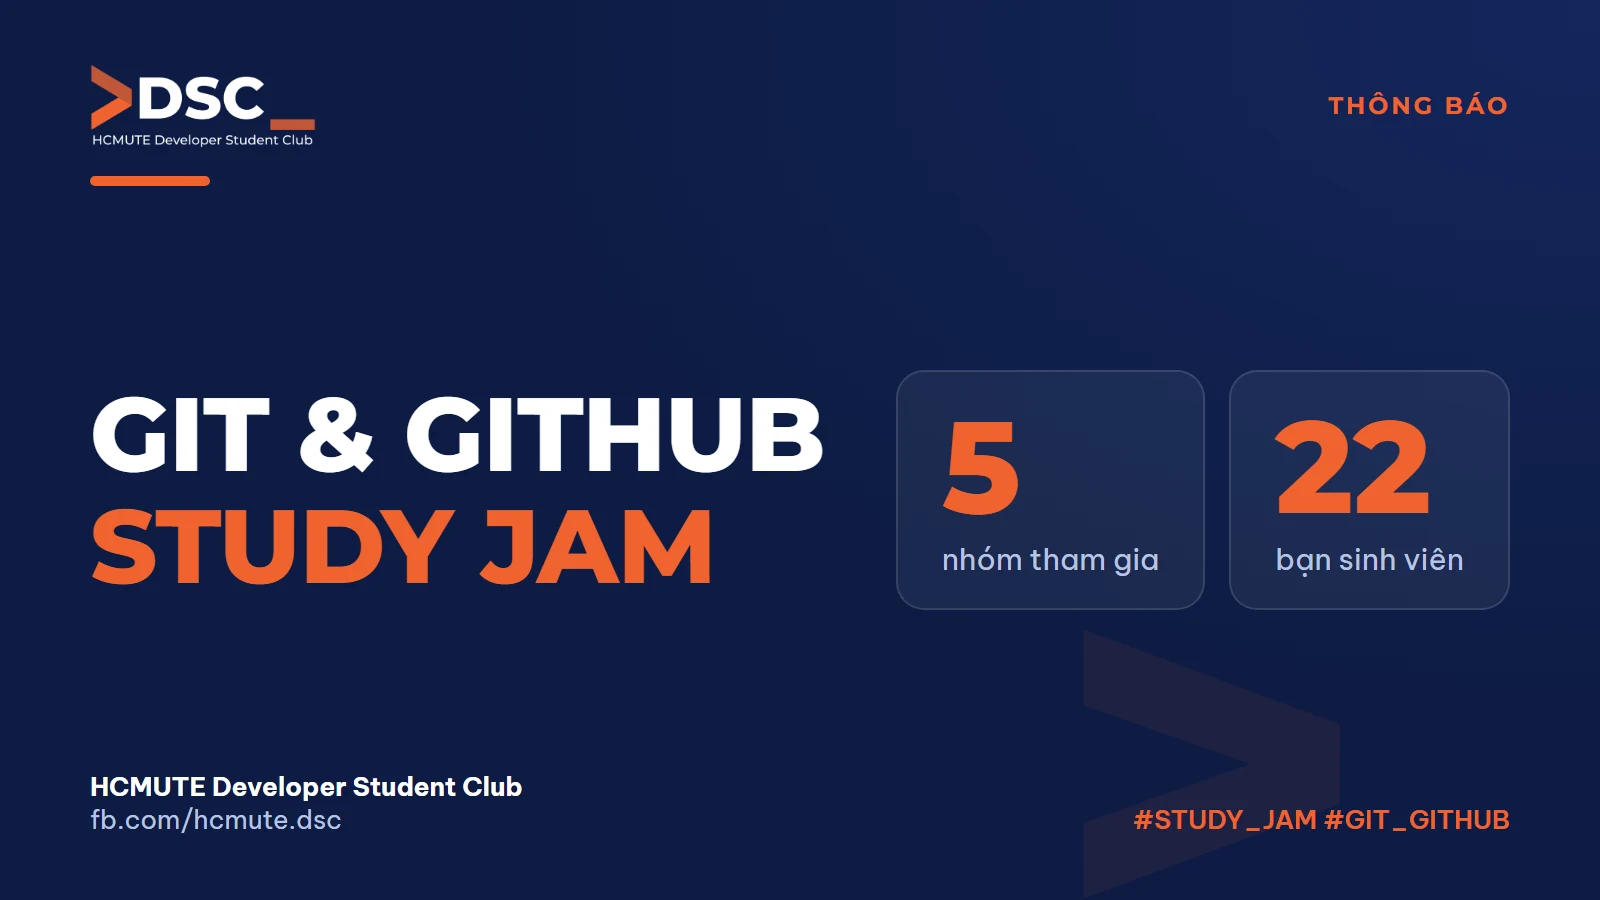
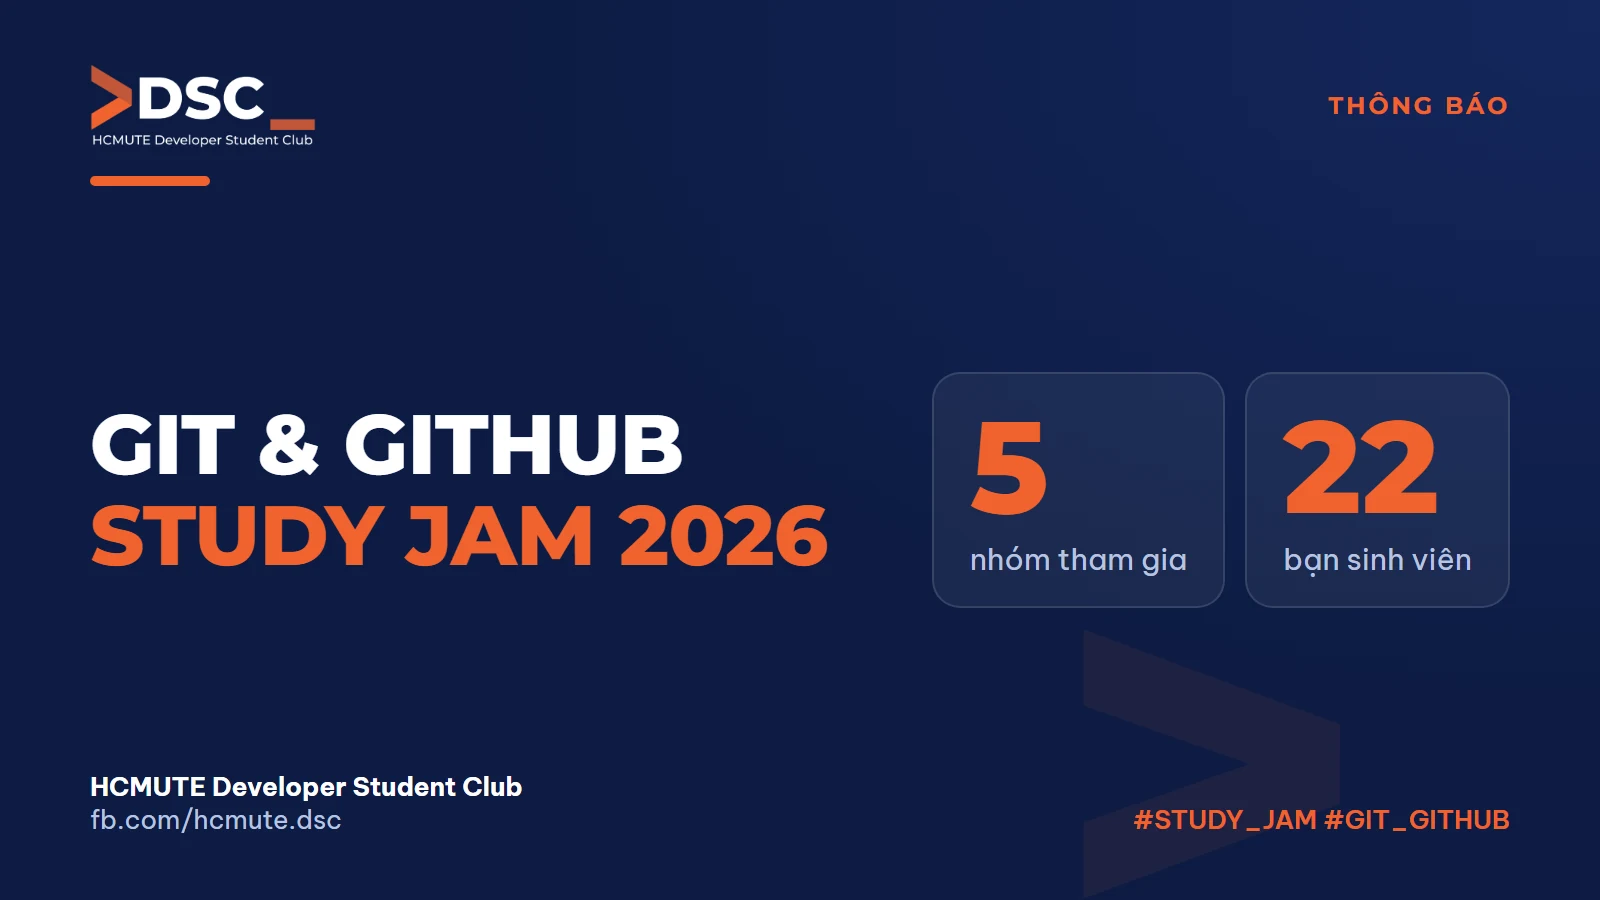
News: rename the program to "Git & GitHub Study Jam 2026"
Updated the post title, text and alt texts, the data file, and recaptured
all images (including the 16:9 cover, laid out to fit the longer title).

diff --git a/design/news/2026-11-21-study-jam-teams.data.js b/design/news/2026-11-21-study-jam-teams.data.js
@@ -14,14 +14,14 @@ window.STUDY_JAM = {
     tag: 'STUDY JAM',                       // chữ nhỏ góc phải, kèm số trang (vd "STUDY JAM · 2/5")
     org: 'HCMUTE Developer Student Club',
     fb: 'fb.com/hcmute.dsc',
-    footer: '**HCMUTE DSC** · Git & GitHub Study Jam',
+    footer: '**HCMUTE DSC** · Git & GitHub Study Jam 2026',
     logo: '../../static/img/logo/hcmute-dsc-logo-dark.png',
   },
 
   // Ảnh 1 · Bìa
   cover: {
     tag: 'THÔNG BÁO',
-    title: ['GIT & GITHUB', 'STUDY JAM'],   // dòng 2 màu cam
+    title: ['GIT & GITHUB', 'STUDY JAM 2026'],   // dòng 2 màu cam
     lead: 'Danh sách **chính thức** các nhóm tham gia chương trình.',
     teamsLabel: 'nhóm tham gia',
     studentsLabel: 'bạn sinh viên',

diff --git a/design/news/2026-11-21-study-jam-teams.html b/design/news/2026-11-21-study-jam-teams.html
@@ -96,9 +96,9 @@
   .slide.wide { width: 1600px; height: 900px; padding: 64px 90px; }
   .slide.wide .bar { margin: 28px 0 24px; }
   .wide-body { display: flex; align-items: center; justify-content: space-between; flex: 1; position: relative; z-index: 1; }
-  .wide-body h1 { font-size: 104px; }
-  .wide-stats { display: flex; gap: 24px; }
-  .wide-stats .stat { padding: 30px 44px; text-align: left; flex: none; }
+  .wide-body h1 { font-size: 84px; white-space: nowrap; }
+  .wide-stats { display: flex; gap: 20px; }
+  .wide-stats .stat { padding: 28px 36px; text-align: left; flex: none; }
   .wide-stats .stat .n { font-size: 130px; }
   .wide-stats .stat .t { font-size: 30px; }
 </style>

diff --git a/news/2026-11-21-cong-bo-danh-sach-cac-nhom-tham-gia-git-github-study-jam/index.md b/news/2026-11-21-cong-bo-danh-sach-cac-nhom-tham-gia-git-github-study-jam/index.md
@@ -1,5 +1,5 @@
 ---
-title: "GIT & GITHUB STUDY JAM | Công bố danh sách các nhóm tham gia"
+title: "GIT & GITHUB STUDY JAM 2026 | Công bố danh sách các nhóm tham gia"
 date: 2026-11-21
 category: thong-bao
 tags:
@@ -10,16 +10,16 @@ tags:
   - label: "Study Jam"
     permalink: /study-jam
 image: ./cover.webp
-description: "Sau thời gian đăng ký, HCMUTE DSC ghi nhận 5 nhóm tham gia Git & GitHub Study Jam với tổng số 22 bạn sinh viên. Cùng xem thông tin chương trình và danh sách các nhóm nhé!"
+description: "Sau thời gian đăng ký, HCMUTE DSC ghi nhận 5 nhóm tham gia Git & GitHub Study Jam 2026 với tổng số 22 bạn sinh viên. Cùng xem thông tin chương trình và danh sách các nhóm nhé!"
 ---
 
-\[GIT & GITHUB STUDY JAM | CÔNG BỐ DANH SÁCH CÁC NHÓM THAM GIA\]
+\[GIT & GITHUB STUDY JAM 2026 | CÔNG BỐ DANH SÁCH CÁC NHÓM THAM GIA\]
 
-🎉 Sau thời gian đăng ký, HCMUTE Developer Student Club ghi nhận có **5 nhóm** tham gia chương trình **Git & GitHub Study Jam** với tổng số **22 bạn sinh viên**.
+🎉 Sau thời gian đăng ký, HCMUTE Developer Student Club ghi nhận có **5 nhóm** tham gia chương trình **Git & GitHub Study Jam 2026** với tổng số **22 bạn sinh viên**.
 
 <!--truncate-->
 
-![Git & GitHub Study Jam | Công bố danh sách các nhóm tham gia (1)](./img-1.webp)
+![Git & GitHub Study Jam 2026 | Công bố danh sách các nhóm tham gia (1)](./img-1.webp)
 
 🙌 CLB xin gửi lời cảm ơn chân thành đến tất cả các bạn đã quan tâm và đăng ký tham gia chương trình.
 
@@ -90,10 +90,10 @@ Mọi ý kiến đóng góp, các bạn có thể liên hệ trực tiếp thôn
 
 <div className="news-gallery">
 
-![Git & GitHub Study Jam | Công bố danh sách các nhóm tham gia (2)](./img-2.webp)
-![Git & GitHub Study Jam | Công bố danh sách các nhóm tham gia (3)](./img-3.webp)
-![Git & GitHub Study Jam | Công bố danh sách các nhóm tham gia (4)](./img-4.webp)
-![Git & GitHub Study Jam | Công bố danh sách các nhóm tham gia (5)](./img-5.webp)
-![Git & GitHub Study Jam | Công bố danh sách các nhóm tham gia (6)](./img-6.webp)
+![Git & GitHub Study Jam 2026 | Công bố danh sách các nhóm tham gia (2)](./img-2.webp)
+![Git & GitHub Study Jam 2026 | Công bố danh sách các nhóm tham gia (3)](./img-3.webp)
+![Git & GitHub Study Jam 2026 | Công bố danh sách các nhóm tham gia (4)](./img-4.webp)
+![Git & GitHub Study Jam 2026 | Công bố danh sách các nhóm tham gia (5)](./img-5.webp)
+![Git & GitHub Study Jam 2026 | Công bố danh sách các nhóm tham gia (6)](./img-6.webp)
 
 </div>
